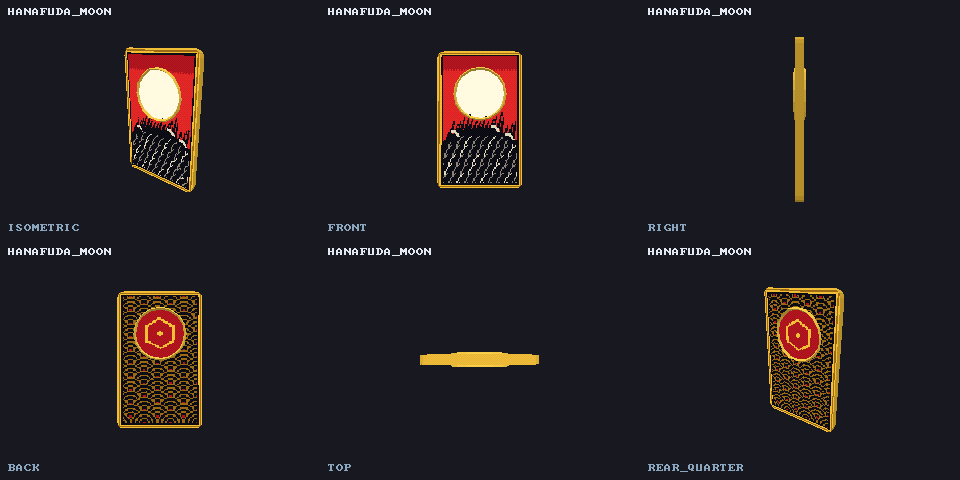
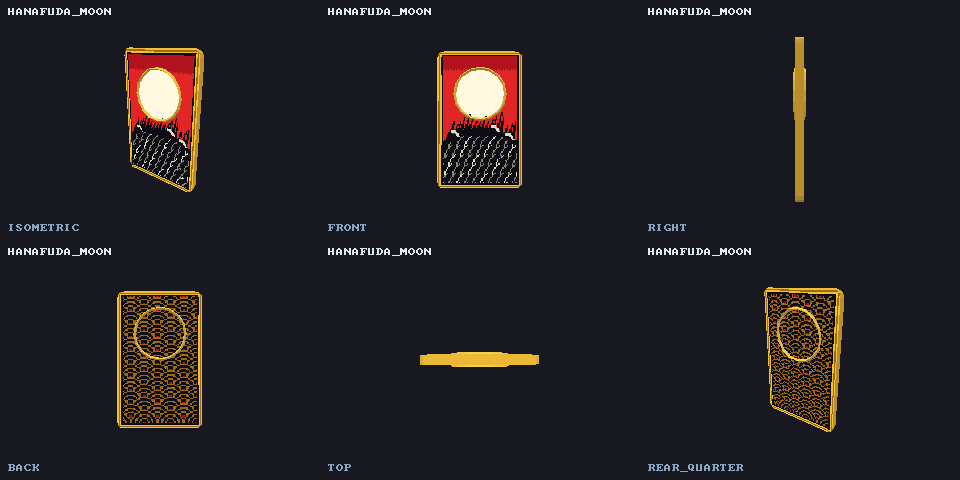
Hanafuda moon card: the back is seigaiha alone, the bead a plain frame over it
The crest is gone: the waves run on under the bead. 4-bit, 4 colours; verify
passes in depth mode.

Changed region(s): [[0.8125, 0.625, 0.875, 0.75], [0.125, 0.625, 0.1875, 0.75]]

diff --git a/examples/assets/collect/hanafuda_moon/gen_hanafuda_moon.py b/examples/assets/collect/hanafuda_moon/gen_hanafuda_moon.py
@@ -5,7 +5,7 @@ The level goal: the August hanafuda card, the full moon over susuki grass, about
 gilt-edged card. The moon is printed on the face and framed by a thin gilt bead, a ring of
 diamond section through the card that stands 1.7 cm proud of each face: a low relief that reads
 from both sides as the card turns. The back, shared by every goal card, is seigaiha waves in dark
-gold with a kikko crest inside the bead. The bead's faces slope at about 60 degrees, so none of them
+gold, running under the bead, which frames them as it frames the moon. The bead's faces slope at about 60 degrees, so none of them
 lies within 3 cm of a parallel face (the Asset Kit's close-face rule).
 """
 import json
@@ -101,7 +101,7 @@ def face():
 
 def back():
     """The back every goal card shares: seigaiha (overlapping waves) in dark gold on the ink, inside
-    the gilt border; the bead frames a crest, a gold kikko (tortoiseshell hexagon) on deep red."""
+    the gilt border. The waves run on under the bead, which stays as a plain frame over them."""
     im = Image.new("RGB", (TW, TH), INK)
     px = im.load()
     R = 10.0                                  # a wave scale's radius, texels
@@ -128,16 +128,6 @@ def back():
     d.rectangle((1, 1, TW - 2, TH - 2), outline=GOLD_DK)
     d.rectangle((2, 2, TW - 3, TH - 3), outline=GOLD)
     d.rectangle((3, 3, TW - 4, TH - 4), outline=INK)
-    # the crest inside the bead: deep red, a gold hexagon and a gold dot
-    mx, my = tex_xy(0, MOON_Y)
-    r = MOON_R / W * TW
-    d.ellipse((mx - r, my - r, mx + r, my + r), fill=SKY_DK)
-    hexr = r * 0.62
-    pts = [(mx + hexr * math.cos(math.radians(90 + 60 * i)),
-            my + hexr * math.sin(math.radians(90 + 60 * i))) for i in range(6)]
-    d.polygon(pts, outline=GOLD)
-    d.line(pts + [pts[0]], fill=GOLD, width=2)
-    d.ellipse((mx - 1.5, my - 1.5, mx + 1.5, my + 1.5), fill=GOLD)
     im.save(os.path.join(ART, "back.png"))
 
 
